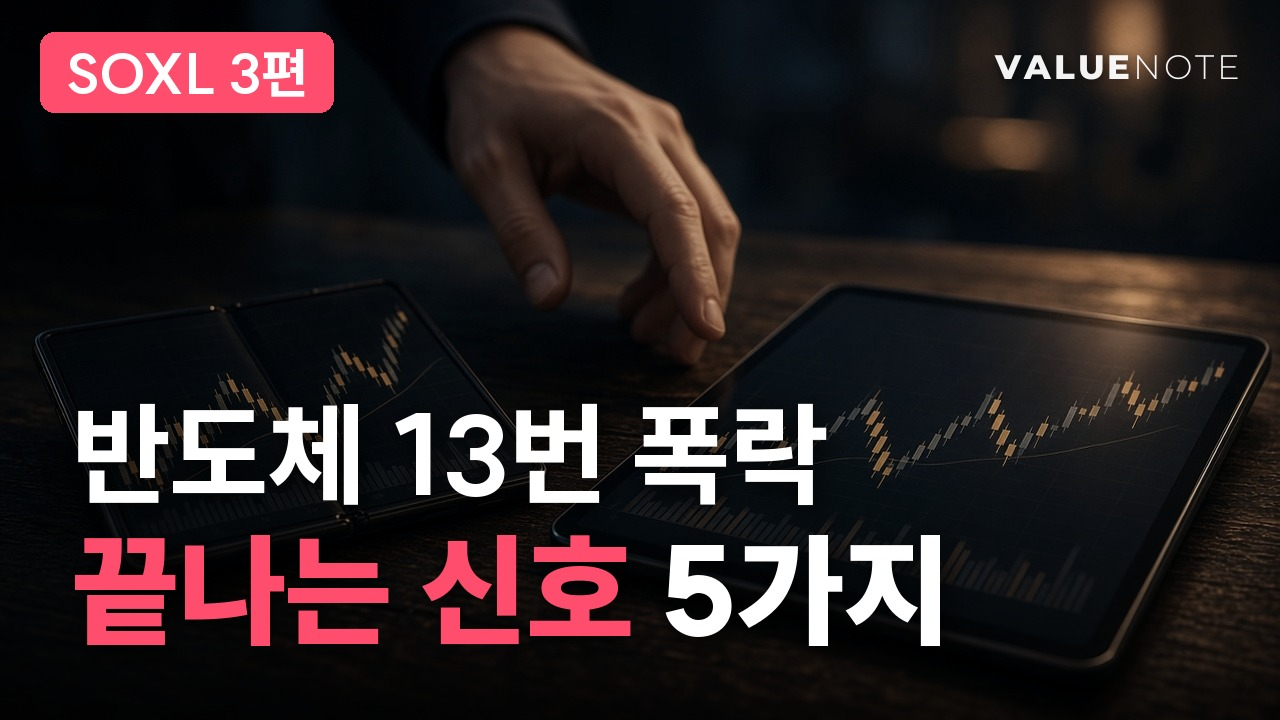
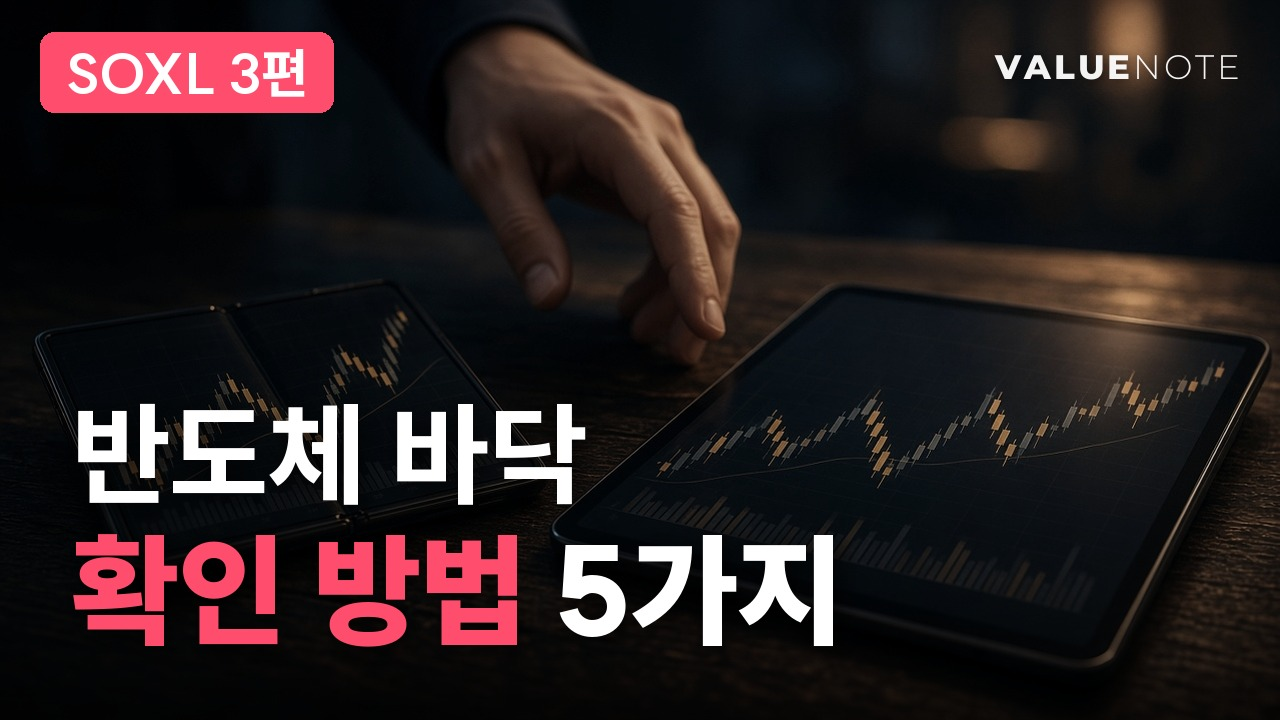
롱폼 L261123-soxl-3 썸네일 C '반도체 바닥 / 확인 방법 5가지' (대표 11/22 21:03)
Claude-Session: https://claude.ai/code/session_01KaYReLT3Q8BHsPVoLFDxpG

Changed region(s): [[0.0312, 0.7333, 0.75, 0.9167], [0.3125, 0.55, 0.4688, 0.7028], [0.5, 0.55, 0.6562, 0.7028]]

diff --git a/scripts/youtube/long/drafts/L261123-soxl-3_make_spec.py b/scripts/youtube/long/drafts/L261123-soxl-3_make_spec.py
@@ -313,7 +313,7 @@ spec.update({
  "ab_sets": [
   {"key": "a", "default": True, "title": "SOXL·반도체 급락, 끝나는 신호 5가지 | 30년간 13번 폭락에서 매번 반복됐다", "file": "thumb_a.jpg", "type": "A 반도체 급락 / 끝나는 신호 5가지"},
   {"key": "b", "title": "SOXL·반도체 급락, 끝나는 신호 5가지 | 30년간 13번 폭락에서 매번 반복됐다", "file": "thumb_b.jpg", "type": "B SOXL -90% / 끝나는 신호 5가지"},
-  {"key": "c", "title": "SOXL·반도체 급락, 끝나는 신호 5가지 | 30년간 13번 폭락에서 매번 반복됐다", "file": "thumb_c.jpg", "type": "C 반도체 13번 폭락 / 끝나는 신호 5가지"}],
+  {"key": "c", "title": "SOXL·반도체 급락, 끝나는 신호 5가지 | 30년간 13번 폭락에서 매번 반복됐다", "file": "thumb_c.jpg", "type": "C 반도체 바닥 / 확인 방법 5가지 (대표 21:03)"}],
  "scenes": sc,
 })
 json.dump(spec, open(OUT, 'w'), ensure_ascii=False, indent=1)

diff --git a/scripts/youtube/long/drafts/L261123-soxl-3_thumbs.py b/scripts/youtube/long/drafts/L261123-soxl-3_thumbs.py
@@ -14,7 +14,7 @@ TW, TH = 1280, 720; PINK = vn2.PINK; WHITE = (255, 255, 255, 255)
 SETS = [   # 20:53 대표: 제목 각도 '반도체 급락, 끝나는 신호 5가지'로 — 아랫줄은 세 안 공통, 윗줄만 바꿔 A/B 테스트
     dict(file="thumb_a.jpg", photo="il_L261105g_cin_panic.jpeg", fx=.62, l1="반도체 급락", l2=("끝나는 신호", " 5가지")),
     dict(file="thumb_b.jpg", photo="il_L261107s_chip_stairs.jpeg", fx=.75, l1="SOXL -90%", l2=("끝나는 신호", " 5가지")),
-    dict(file="thumb_c.jpg", photo="il_L261113a_phone_vs_chart.jpeg", fx=.55, l1="반도체 13번 폭락", l2=("끝나는 신호", " 5가지")),
+    dict(file="thumb_c.jpg", photo="il_L261113a_phone_vs_chart.jpeg", fx=.55, l1="반도체 바닥", l2=("확인 방법", " 5가지")),
 ]
 
 
